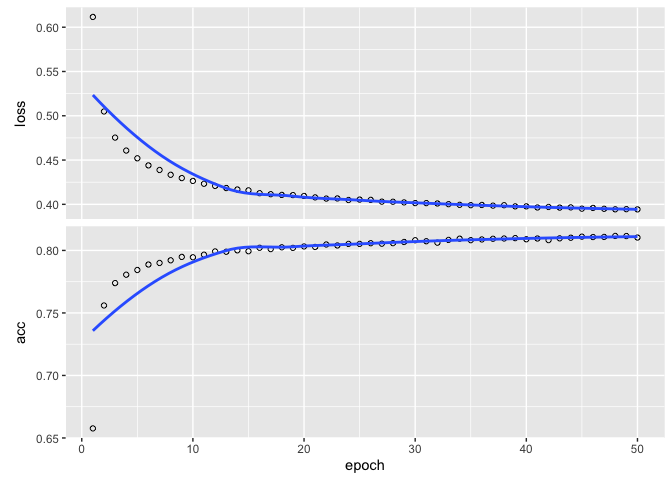
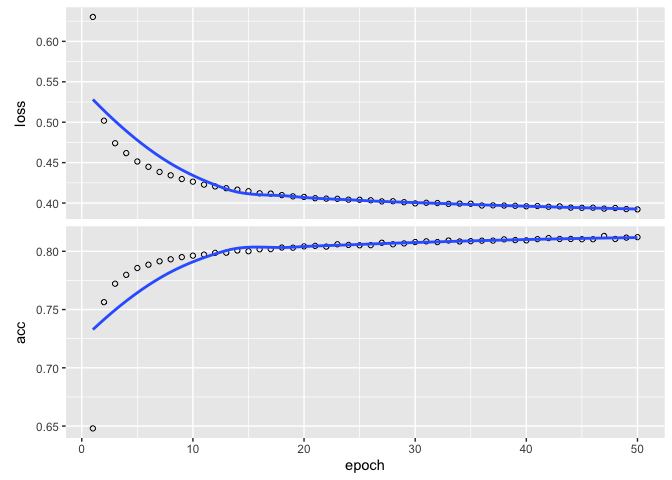
updated files, fixed spelling typos, updated readme

diff --git a/hotel-analysis.md b/hotel-analysis.md
@@ -58,27 +58,27 @@ used Google CoLab or AWS to learn how to build models using a GPU (and
 stuck with TensorFlow). However, I prefer to do my analysis/coding on a
 local machine in a non-notebook environment. But I digress.
 
-Surprisingly, I found it challenging to find simple yet comprehenisve
-examples for regression and classification. Many of the examples I found
-were around image classification, text analytics, etc. Even the ‘simple’
-regression example (see
+Surprisingly, I found it challenging to find simple yet comprehensive
+examples for regression and classification using keras’s functional API.
+Many of the examples I found used the sequential API - which may be
+easier to use, but not always the best choice. Furthermore, many of the
+examples leveraged pre-processed “ready to go” datasets (see
 [here](https://machinelearningmastery.com/regression-tutorial-keras-deep-learning-library-python/))
-uses a dataset that is pretty much ready for a neural network. I find,
-for myself, that it’s easier to work with a dataset that requires some
-‘cleaning’ and processing so that it’s a bit more representative of
-what you see in the real world.
+for building a neural network. I find, for myself, that it’s easier to
+work with a dataset that requires some ‘cleaning’ and processing so that
+it’s a bit more representative of what you see in the real world.
 
 I have three main goals for this exercise:
 
-  - Pick a dataset and brielfy walk through a ‘usual’ data-science
+  - Pick a dataset and briefly walk through a ‘usual’ data-science
     process (e.g., exploratory data analysis - EDA, feature engineering,
     train/test split, etc.)
-  - Develop a simple neural network model using Keras with a PlaidML
-    backend
+  - Develop a simple neural network model using Keras with the
+    functional API and use the PlaidML backend
   - Apply trained model to test dataset and obtain some metrics
 
 **NOTE**: I am not interested in making the ‘perfect’ model or even a
-well-performing model. I am simply creating a walkthrough on how to go
+well-performing model. I am simply creating a walk-through on how to go
 from a dataset to trained neural network (i.e., deep neural network -
 DNN) model using a GPU, PlaidML, and Keras.
 
@@ -100,13 +100,13 @@ While this is is a great exploratory dataset, I’m choosing to predict
 whether a booking will be cancelled or not (a classic two-class
 problem). Contextually speaking, this dataset may not perform well
 because it may not capture the true reasons why a booking was cancelled.
-However, it is a large enough dataset that I can use as a walkthrough.
+However, it is a large enough dataset that I can use as a walk-through.
 
 I am aware that this dataset is fairly ‘clean’ and ready to be analyzed.
 And that’s ok\! This dataset is actually not perfect:
 
   - it has missing values
-  - it has several categoricals
+  - it has several categorical variables
   - new features can be created
 
 In my view, this dataset is perfect\!
@@ -161,7 +161,7 @@ One of the interesting things about `vroom()` is that you can identify
 what makes up an *na* or NULL value. In this case, I populated some
 example terms that I have seen used to identify NULL values. In my
 experience, this is often the case where NULL values are actually
-identifed as “NULL” or “NA” (in other words, these are characters).
+identified as “NULL” or “NA” (in other words, these are characters).
 
 Now let’s take a quick peek at the data using the `glimpse()` function
 (part of {dplyr}).
@@ -259,10 +259,11 @@ or keeping in our analysis.
 
 Another thing we can look at is how many unique values exist for each
 variable. This could help us understand which variables could be
-“condensed”. Having too many categorical (i.e., ordinal & nonordinals)
-values may pose a challenge for models. Often, we can use embeddings or
-one-hot encodings, but we should think about the variables contextually.
-Sometimes, the variable may not make sense to keep in the model.
+“condensed”. Having too many categorical (i.e., ordinal &
+non-ordinals) values may pose a challenge for models. Often, we can use
+embeddings or one-hot encodings, but we should think about the variables
+contextually. Sometimes, the variable may not make sense to keep in the
+model.
 
 ``` r
 hotels %>%
@@ -456,7 +457,7 @@ main_recipe <- recipes::recipe(~.,data = cln_hotel) %>%
     stay_duration = stays_in_week_nights + stays_in_weekend_nights,
     total_guests = adults + children + babies,
     total_cost = stay_duration * adr,
-    meal_included = case_when(meal %in% c('SC','Undedfined') ~ 0, TRUE ~ 1),
+    meal_included = case_when(meal %in% c('SC','Undefined') ~ 0, TRUE ~ 1),
     city_hotel = ifelse(hotel == 'City Hotel', 1, 0),
     roomtype_different = case_when(reserved_room_type != assigned_room_type ~ 1, TRUE ~ 0)
   ) %>%
@@ -906,8 +907,8 @@ print(history)
 
     ## Trained on 70,322 samples (batch_size=1,000, epochs=50)
     ## Final epoch (plot to see history):
-    ## loss: 0.3943
-    ##  acc: 0.8103
+    ## loss: 0.3922
+    ##  acc: 0.8121
 
 ``` r
 plot(history)
@@ -960,8 +961,8 @@ test_tbl %>%
 
     ##                Truth
     ## Prediction      not_cancelled cancelled
-    ##   not_cancelled         12352      2004
-    ##   cancelled              2249      6785
+    ##   not_cancelled         12409      2002
+    ##   cancelled              2192      6787
 
 ### Accuracy
 
@@ -974,8 +975,8 @@ test_tbl %>%
     ## # A tibble: 2 x 2
     ##   .metric  .estimate
     ##   <chr>        <dbl>
-    ## 1 accuracy     0.818
-    ## 2 kap          0.615
+    ## 1 accuracy     0.821
+    ## 2 kap          0.619
 
 ### AUC
 
@@ -1002,7 +1003,7 @@ tibble(
     ## # A tibble: 1 x 2
     ##   precision recall
     ##       <dbl>  <dbl>
-    ## 1     0.860  0.846
+    ## 1     0.861  0.850
 
 ### F1 Score
 
@@ -1015,4 +1016,4 @@ test_tbl %>%
     ## # A tibble: 1 x 1
     ##   .estimate
     ##       <dbl>
-    ## 1     0.853
+    ## 1     0.855

diff --git a/README.md b/README.md
@@ -1,11 +1,32 @@
-# Hotel Data
+# Predicting Hotel Booking Cancellations
+
+## TL;DR
+This repo contains a tutorial on how to leverage {keras} and PlaidML (an alternative to TensorFlow) to build a simple binary classification model using a GPU.
+
+## Background
+
+I found it challenging to find a simple walk-through in R that built a simple classification model using {keras}'s Functional API and PlaidML. PlaidML is an open source framework that works with almost any GPU unlike TensorFlow. Furthermore, if you rely on a newer Mac, you are unable to use an nVidia GPU (which is required for TensorFlow) and must rely on an AMD GPU. For that purpose, I found that PlaidML works well and it works on any branded GPU. While PlaidML is nothing more than a frame-work, its key benefit is that the overall coding doesn't change much. Lastly, many of the walkthroughs for building models in {keras} and R seem to rely on the sequential approach and not so much on the functional API approach. 
+
+## Walkthrough
+
+The walkthrough can be found [here](https://github.com/nikdata/hotel-modeling/blob/master/hotel-analysis.md)
+
+## Next Steps
+
+My next step (time permitting) is to create this walkthrough in Python.
+
+## References
 
 ### Source
 [Antonio, Almeida and Nunes, 2019](https://www.sciencedirect.com/science/article/pii/S2352340918315191#f0010)
+[Tidy Tuesday](https://github.com/rfordatascience/tidytuesday/tree/master/data/2020/2020-02-11)
 
 ### Hat tip
 
-[Tidy Tuesday](https://github.com/rfordatascience/tidytuesday/tree/master/data/2020/2020-02-11)
+[RStudio AI Blog: Deep Learning with Keras to Predict Customer Churn](https://blogs.rstudio.com/tensorflow/posts/2018-01-11-keras-customer-churn/)
+[RStudio AI Blog: Word Embeddings](https://blogs.rstudio.com/tensorflow/posts/2017-12-22-word-embeddings-with-keras/)
+[Machine Learning Mastery: Regression Tutorial with Keras](https://machinelearningmastery.com/regression-tutorial-keras-deep-learning-library-python/)
+
 
 ### Data Dictionary
 
